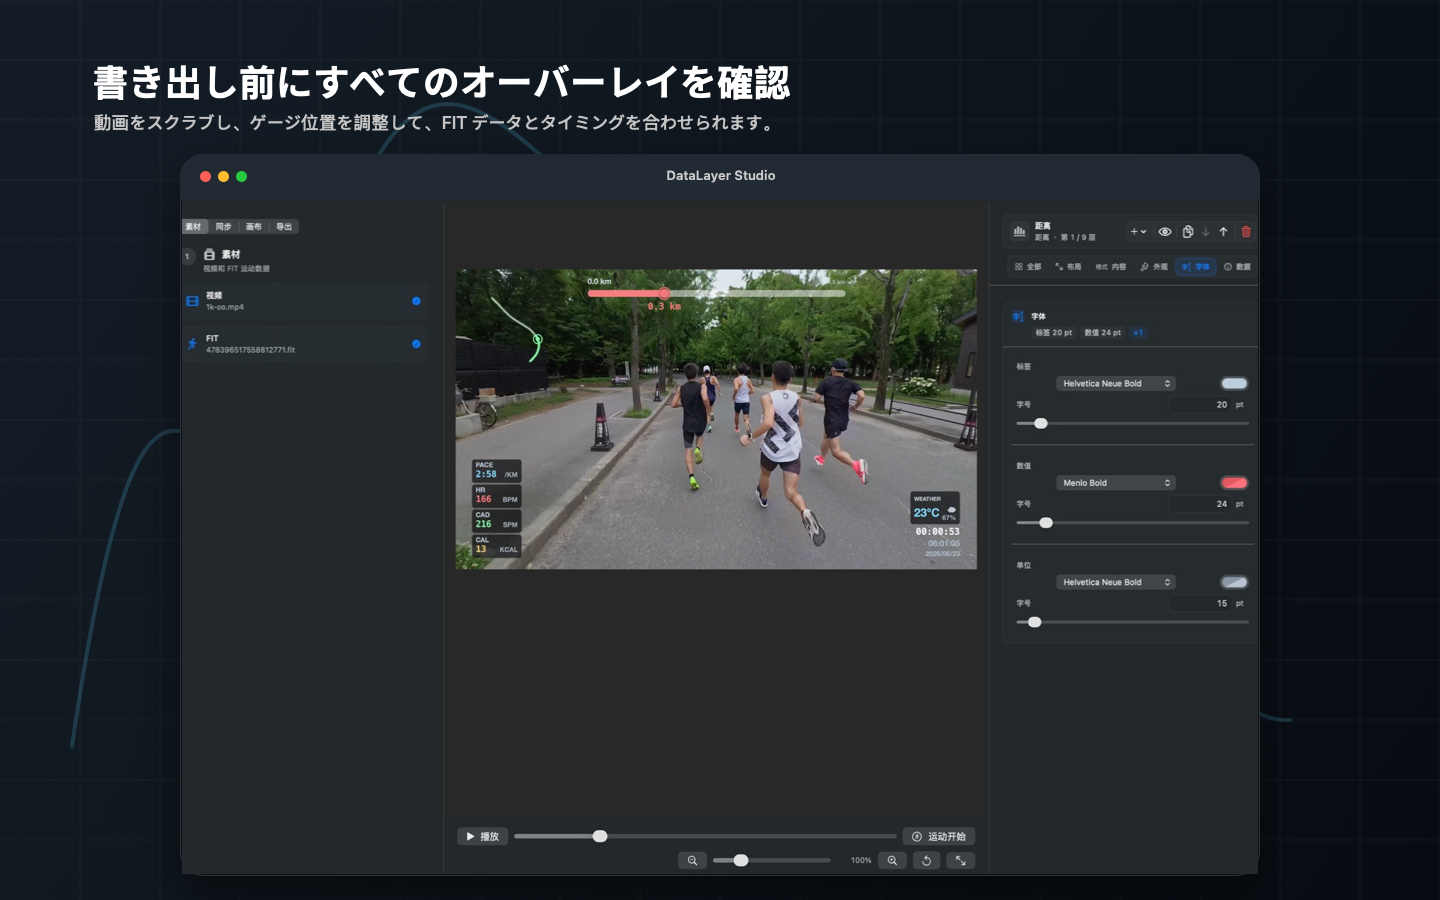
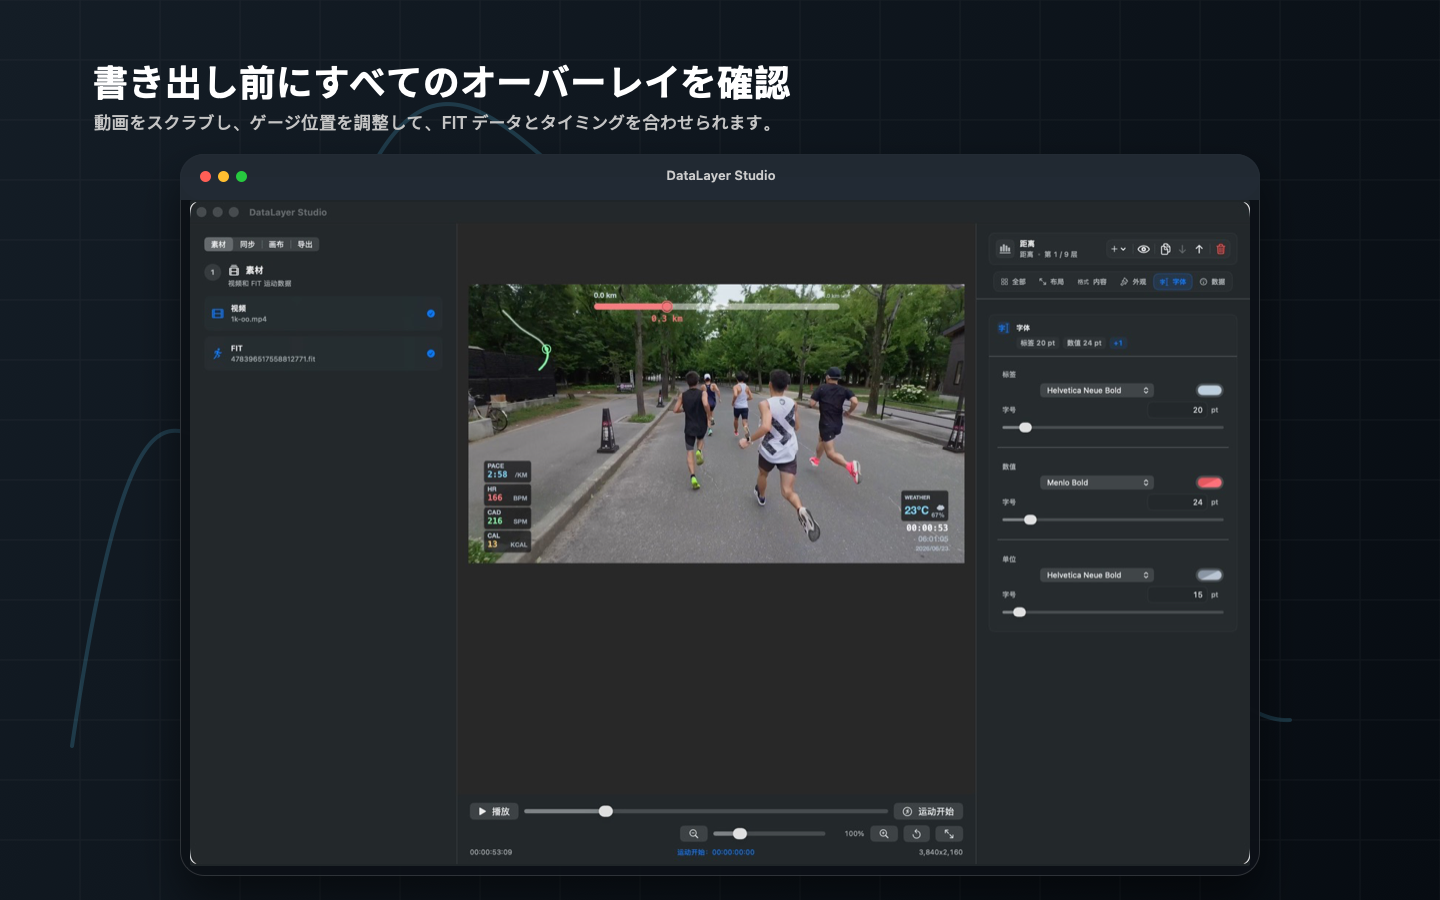
修复应用商店截图裁切问题

diff --git a/scripts/generate_appstore_framed_assets.swift b/scripts/generate_appstore_framed_assets.swift
@@ -265,20 +265,26 @@ func drawImage(_ ctx: CGContext, url: URL, rect: CGRect, radius: CGFloat = 0) th
     ctx.restoreGState()
 }
 
-func drawImageCropped(_ ctx: CGContext, url: URL, rect: CGRect, sourceInset: CGFloat) throws {
+func drawImageFitted(_ ctx: CGContext, url: URL, rect: CGRect) throws {
     guard let image = NSImage(contentsOf: url) else {
         throw NSError(domain: "AppStoreAsset", code: 1, userInfo: [NSLocalizedDescriptionKey: "Could not load image \(url.path)"])
     }
-    let sourceRect = CGRect(
-        x: sourceInset,
-        y: sourceInset,
-        width: image.size.width - sourceInset * 2,
-        height: image.size.height - sourceInset * 2
+    let scale = min(rect.width / image.size.width, rect.height / image.size.height)
+    let fittedSize = CGSize(
+        width: image.size.width * scale,
+        height: image.size.height * scale
+    )
+    let fittedRect = CGRect(
+        x: rect.midX - fittedSize.width / 2,
+        y: rect.midY - fittedSize.height / 2,
+        width: fittedSize.width,
+        height: fittedSize.height
     )
     ctx.saveGState()
     NSGraphicsContext.saveGraphicsState()
     NSGraphicsContext.current = NSGraphicsContext(cgContext: ctx, flipped: false)
-    image.draw(in: rect, from: sourceRect, operation: .sourceOver, fraction: 1)
+    NSBezierPath(roundedRect: fittedRect, xRadius: 8, yRadius: 8).addClip()
+    image.draw(in: fittedRect, from: .zero, operation: .sourceOver, fraction: 1)
     NSGraphicsContext.restoreGraphicsState()
     ctx.restoreGState()
 }
@@ -303,8 +309,9 @@ func drawWindow(_ ctx: CGContext, screenshotURL: URL, frame: CGRect, title: Stri
     }
     drawText(ctx, title, x: frame.minX + 86, y: canvasSize.height - frame.maxY + 13, width: frame.width - 170, height: 20, size: 13, weight: .semibold, color: NSColor(calibratedWhite: 0.76, alpha: 1), alignment: .center)
 
-    let content = CGRect(x: frame.minX + 2, y: frame.minY + 2, width: frame.width - 4, height: frame.height - titlebarHeight - 2)
-    try drawImageCropped(ctx, url: screenshotURL, rect: content, sourceInset: 12)
+    let content = CGRect(x: frame.minX + 10, y: frame.minY + 10, width: frame.width - 20, height: frame.height - titlebarHeight - 10)
+    fillRound(ctx, content, radius: 2, color: color(31, 37, 40))
+    try drawImageFitted(ctx, url: screenshotURL, rect: content)
 }
 
 func makeContext() -> CGContext {
